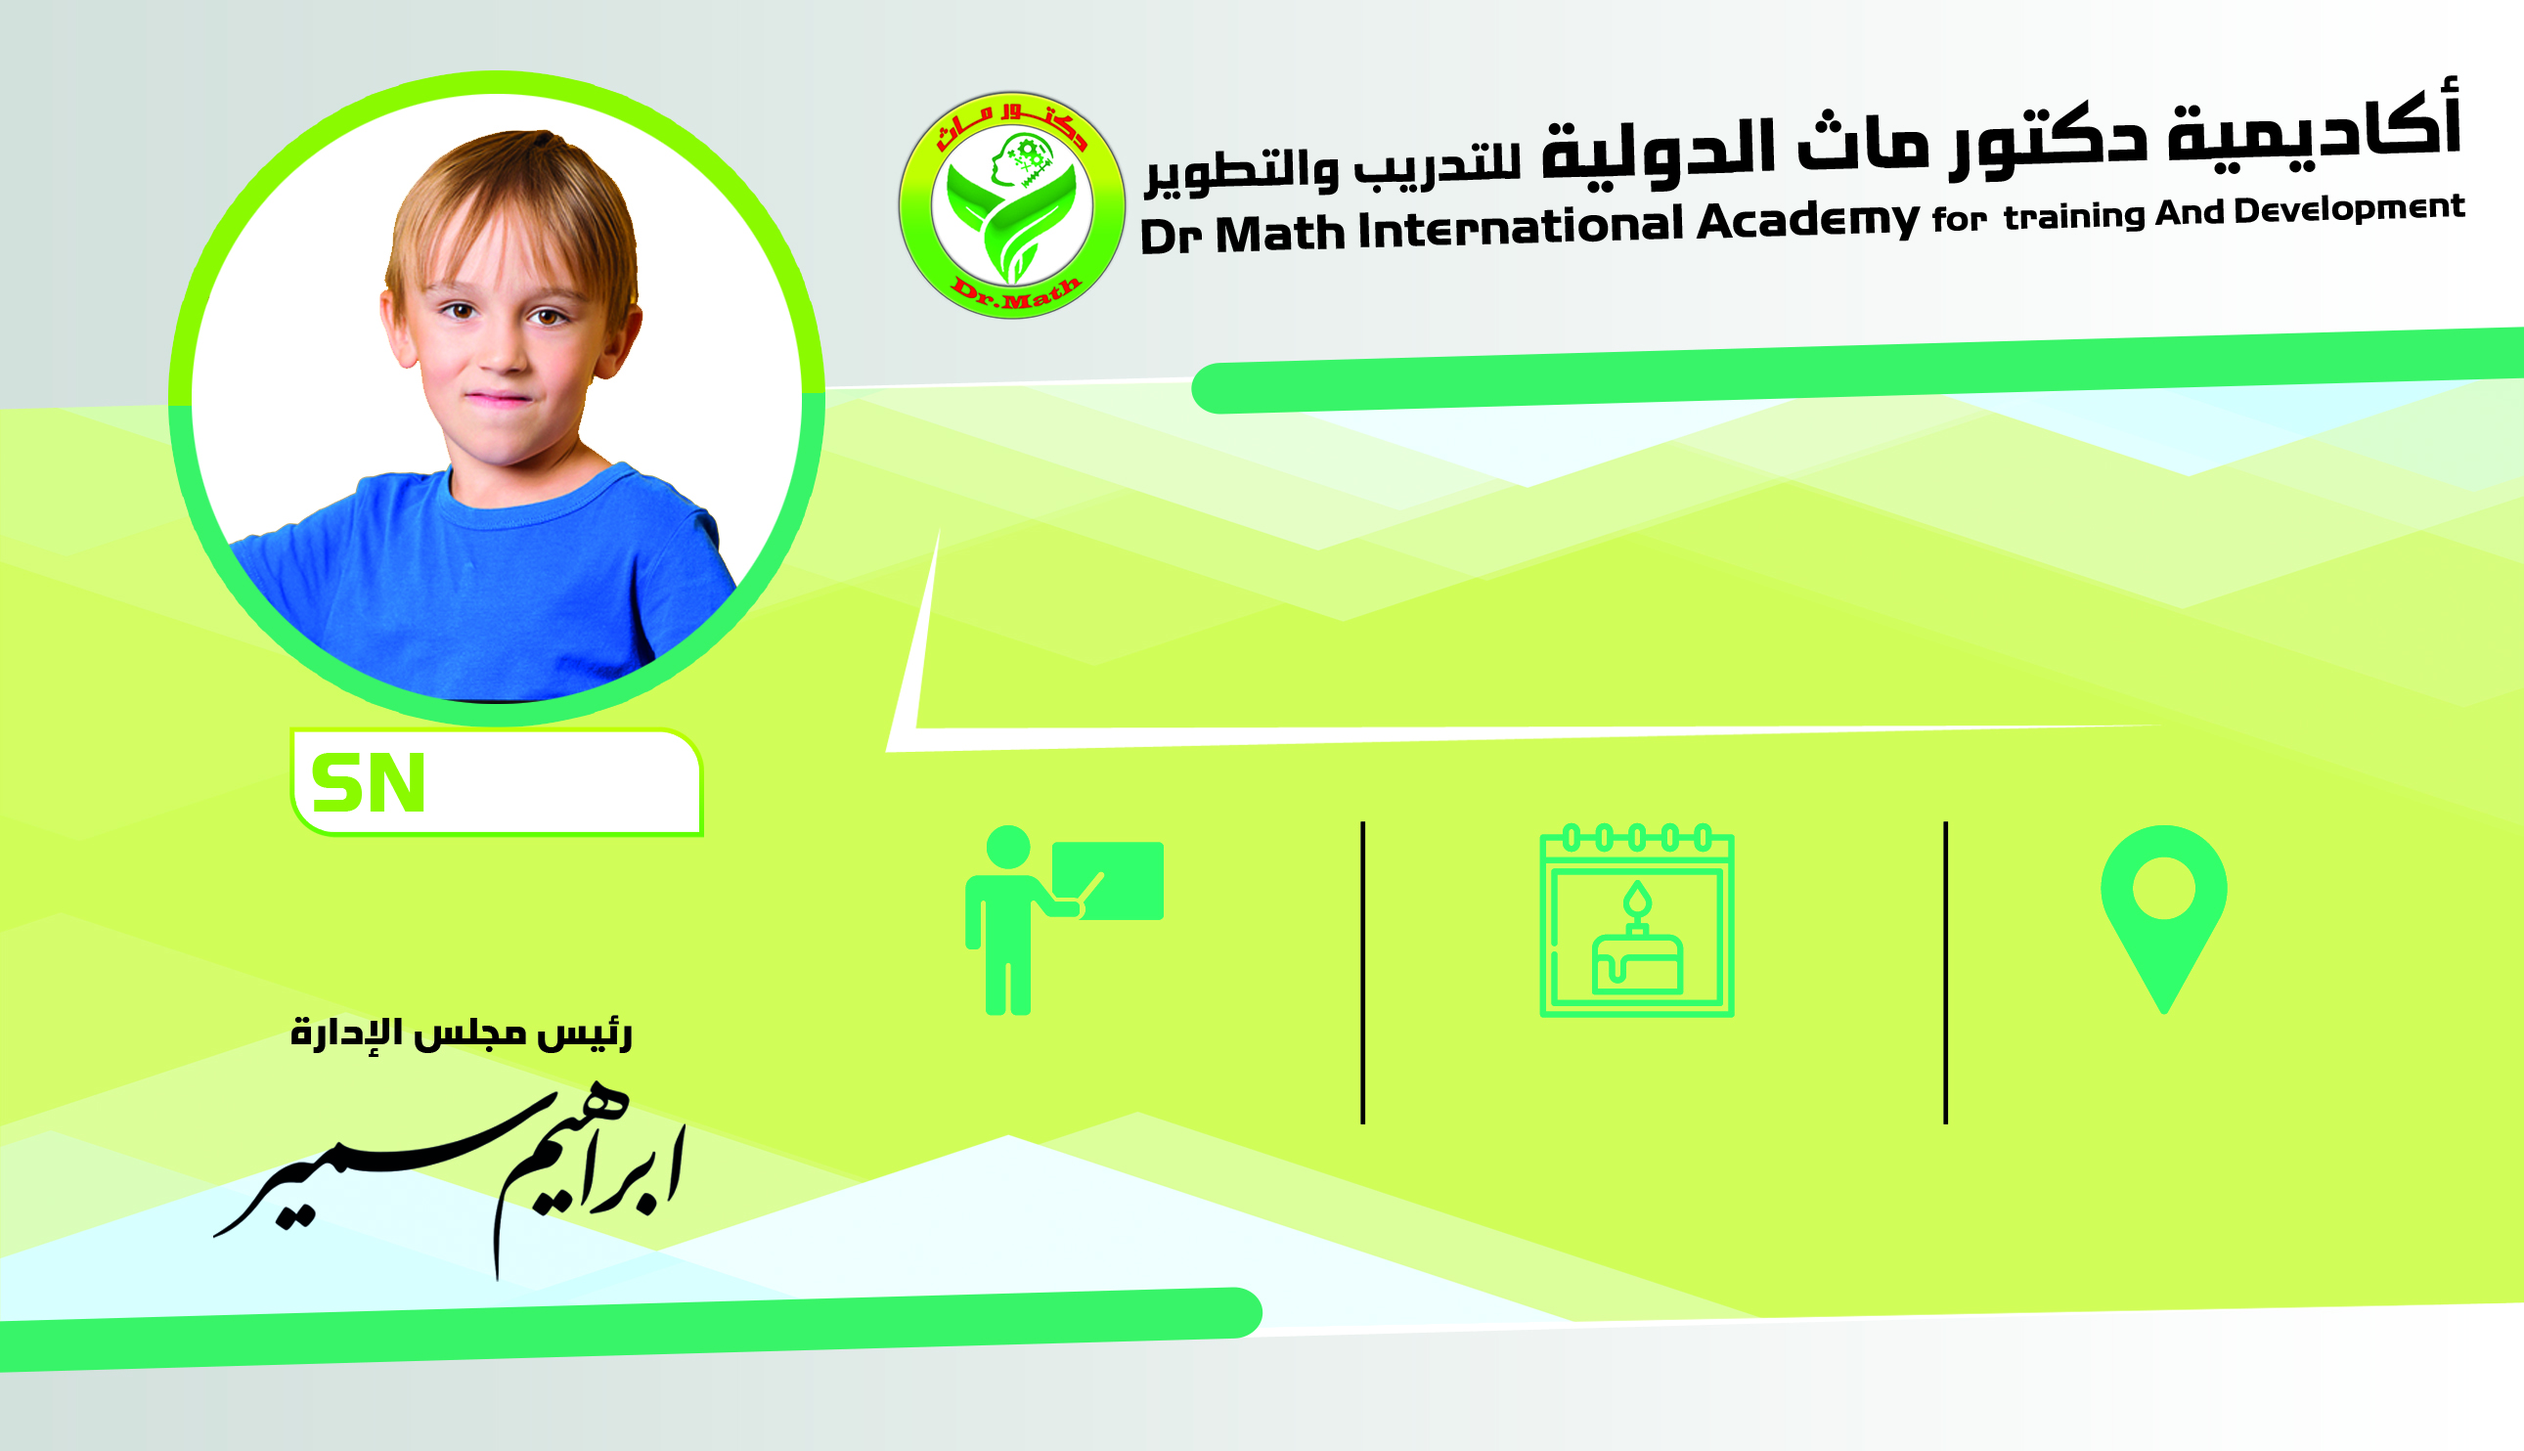
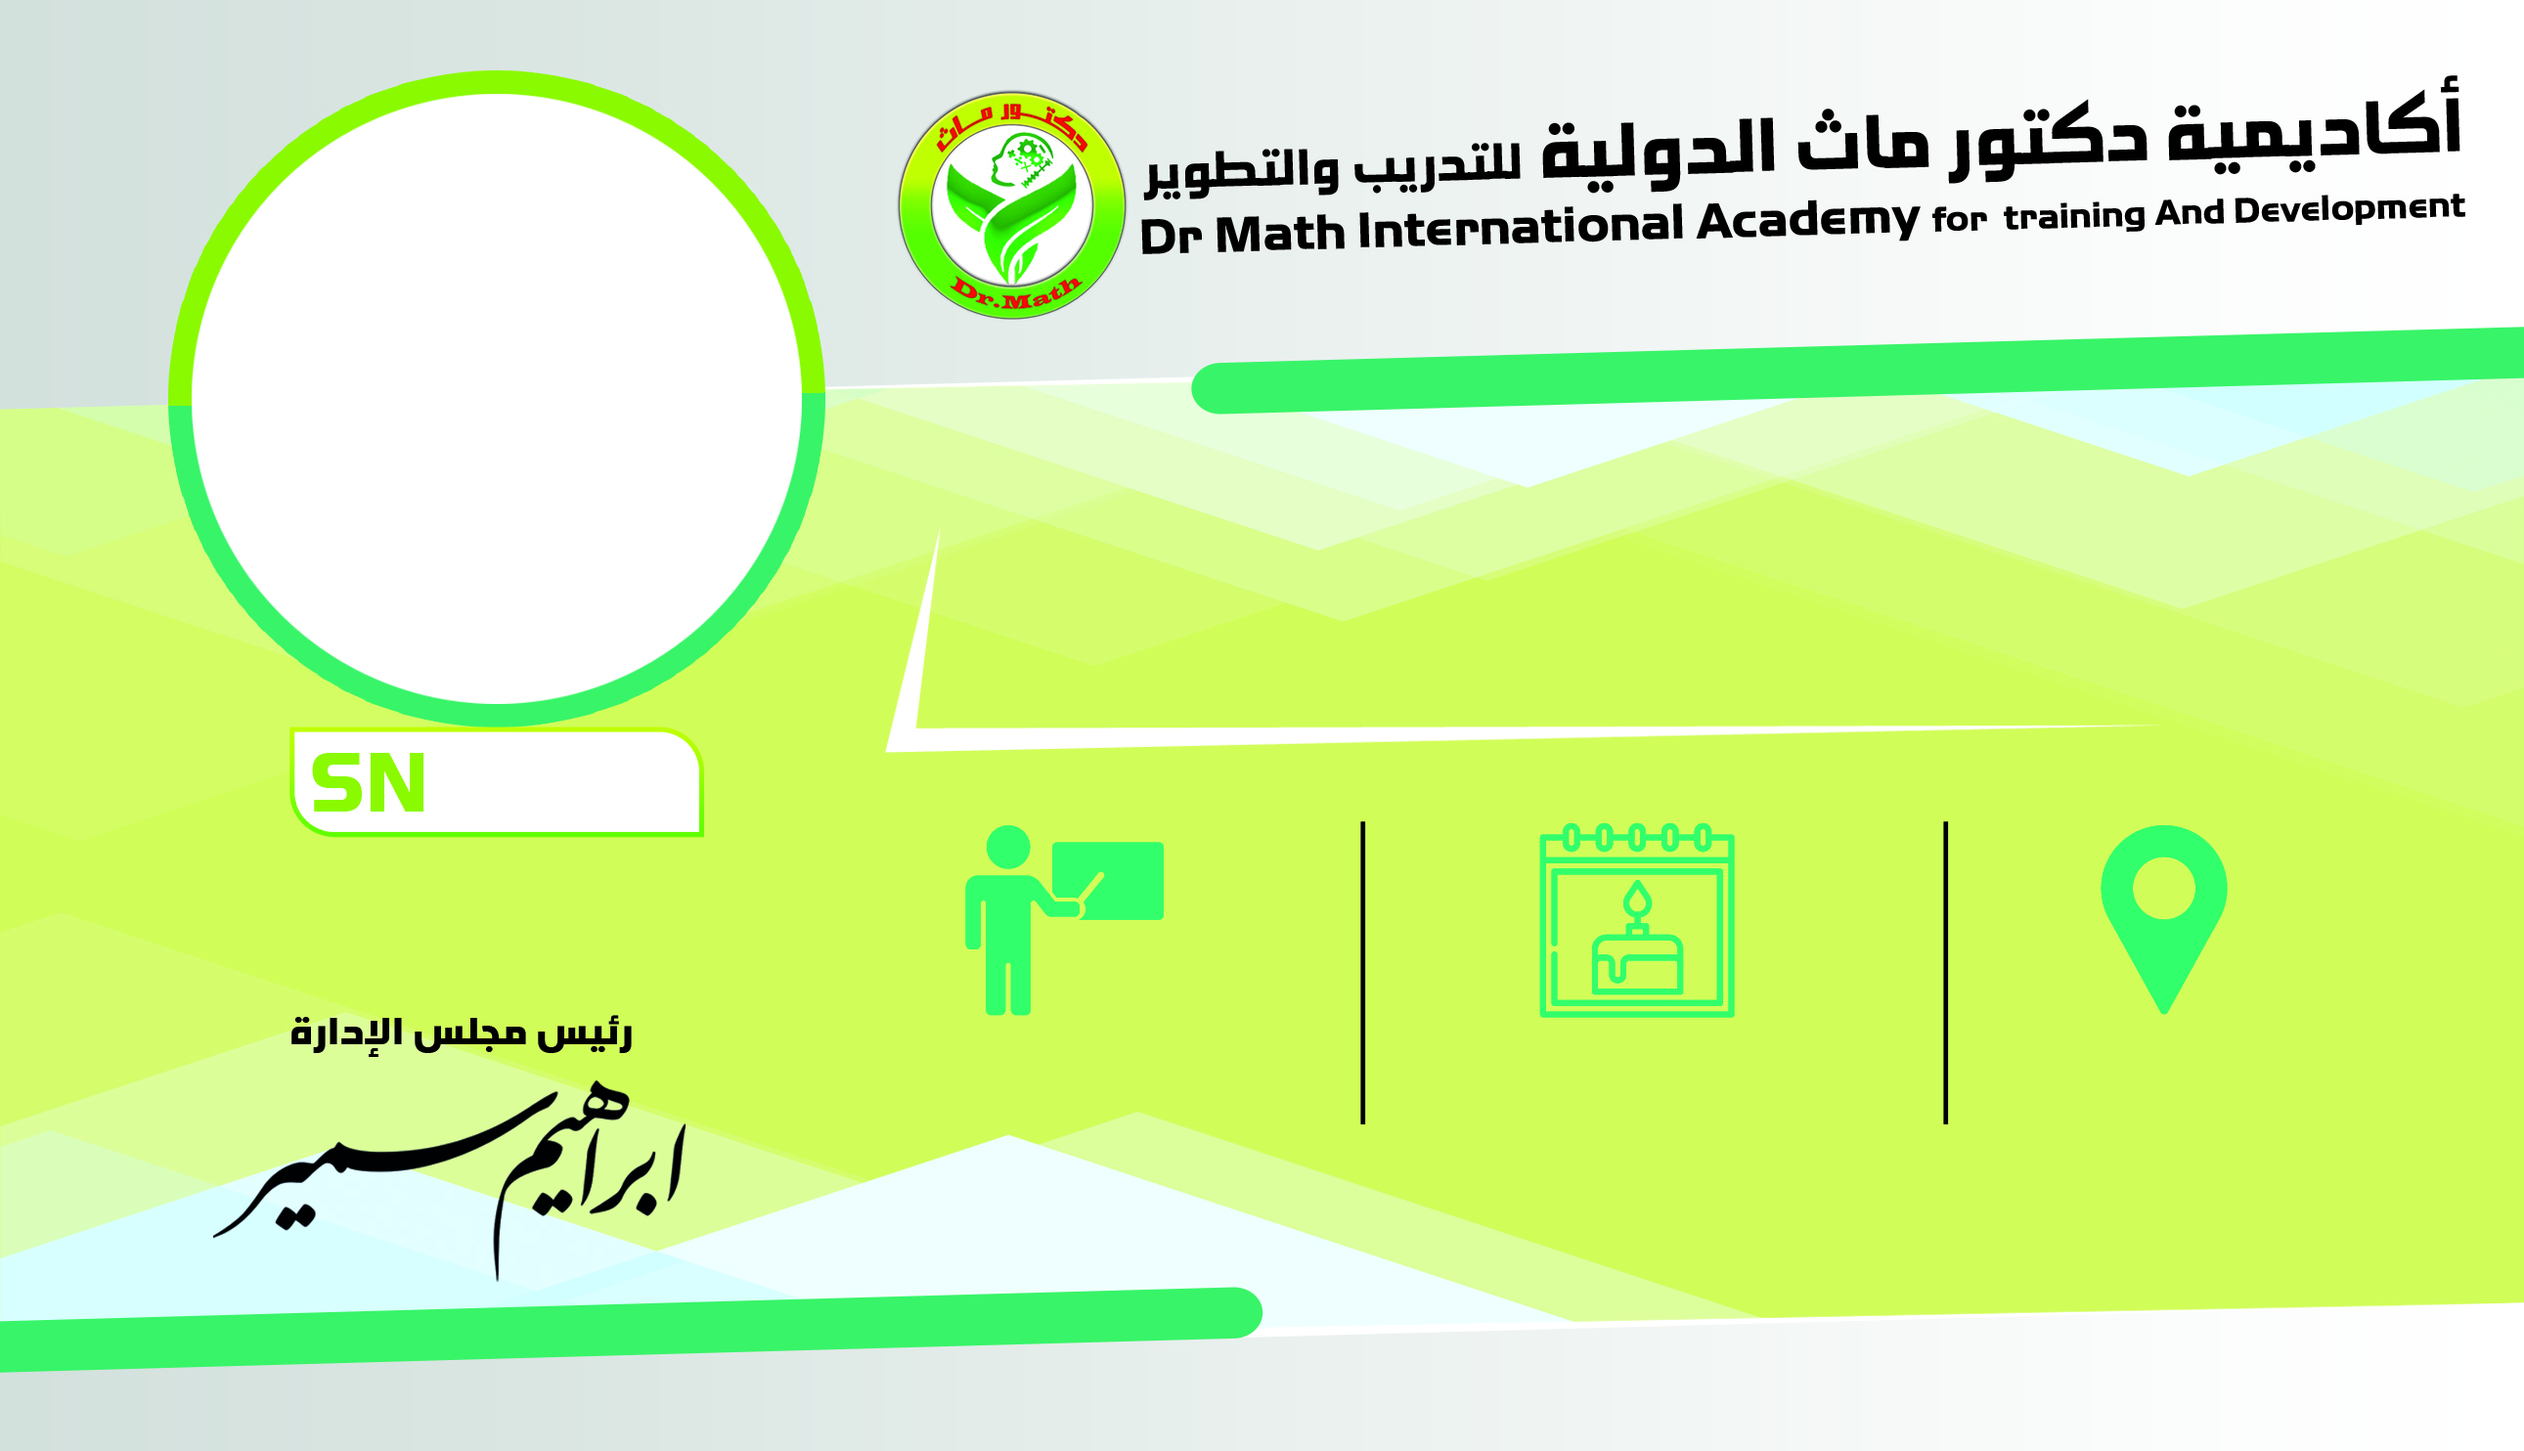
Update Last Version Card

Changed region(s): [[0.093, 0.093, 0.31, 0.496]]

diff --git a/src/app/pages/basic-data/Subscriber/subscriber-cards/subscriber-cards.component.html b/src/app/pages/basic-data/Subscriber/subscriber-cards/subscriber-cards.component.html
@@ -39,6 +39,7 @@
         margin: 0;
     }
 
+
     @media print {
     .page {
       width: 210mm;
@@ -117,6 +118,32 @@
           ">{{SubscriberNameEn}}</p>
         </div>
       <!-- End English Name -->
+
+      <!-- Start Photo -->
+        <div class="photo"
+          style="
+          position: absolute;
+          height: 83px;
+          width: 78px;
+          top: 16px;
+          left: 27px;
+          text-align: left;
+          overflow: hidden;
+          border-radius: 50%;
+          padding: 0;
+          ">
+          <img [src]="imageUrl" alt=""
+          style="
+            margin: 0;
+            padding: 0;
+            background-position: left;
+            background-size: cover;
+            height: 83px;
+            width: 83px;
+            border-radius: 50%;
+          ">
+        </div>
+      <!-- End Photo -->
 
       <!-- Start Code -->
         <div class="code"
